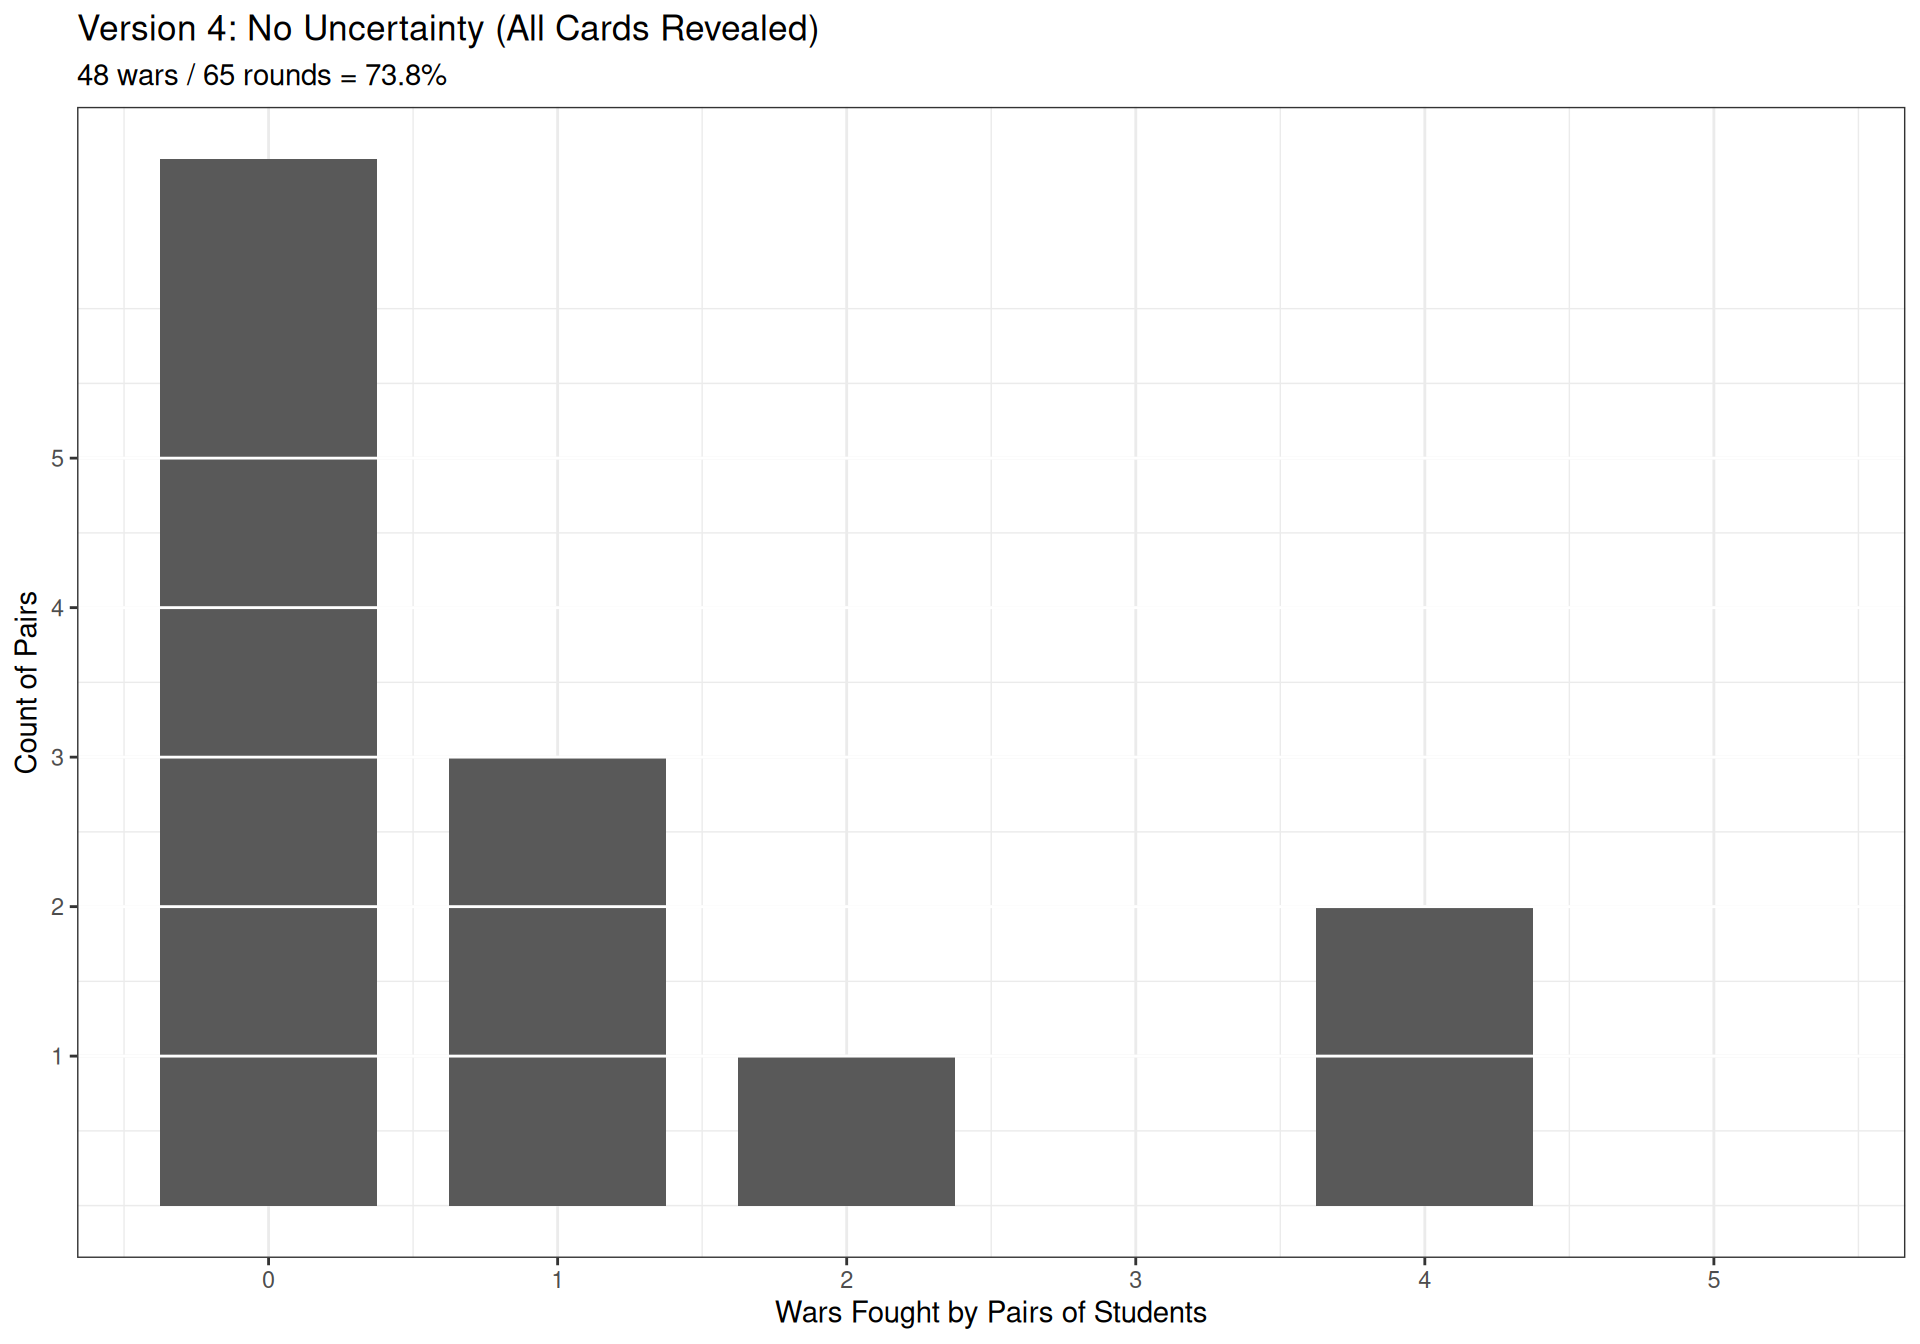
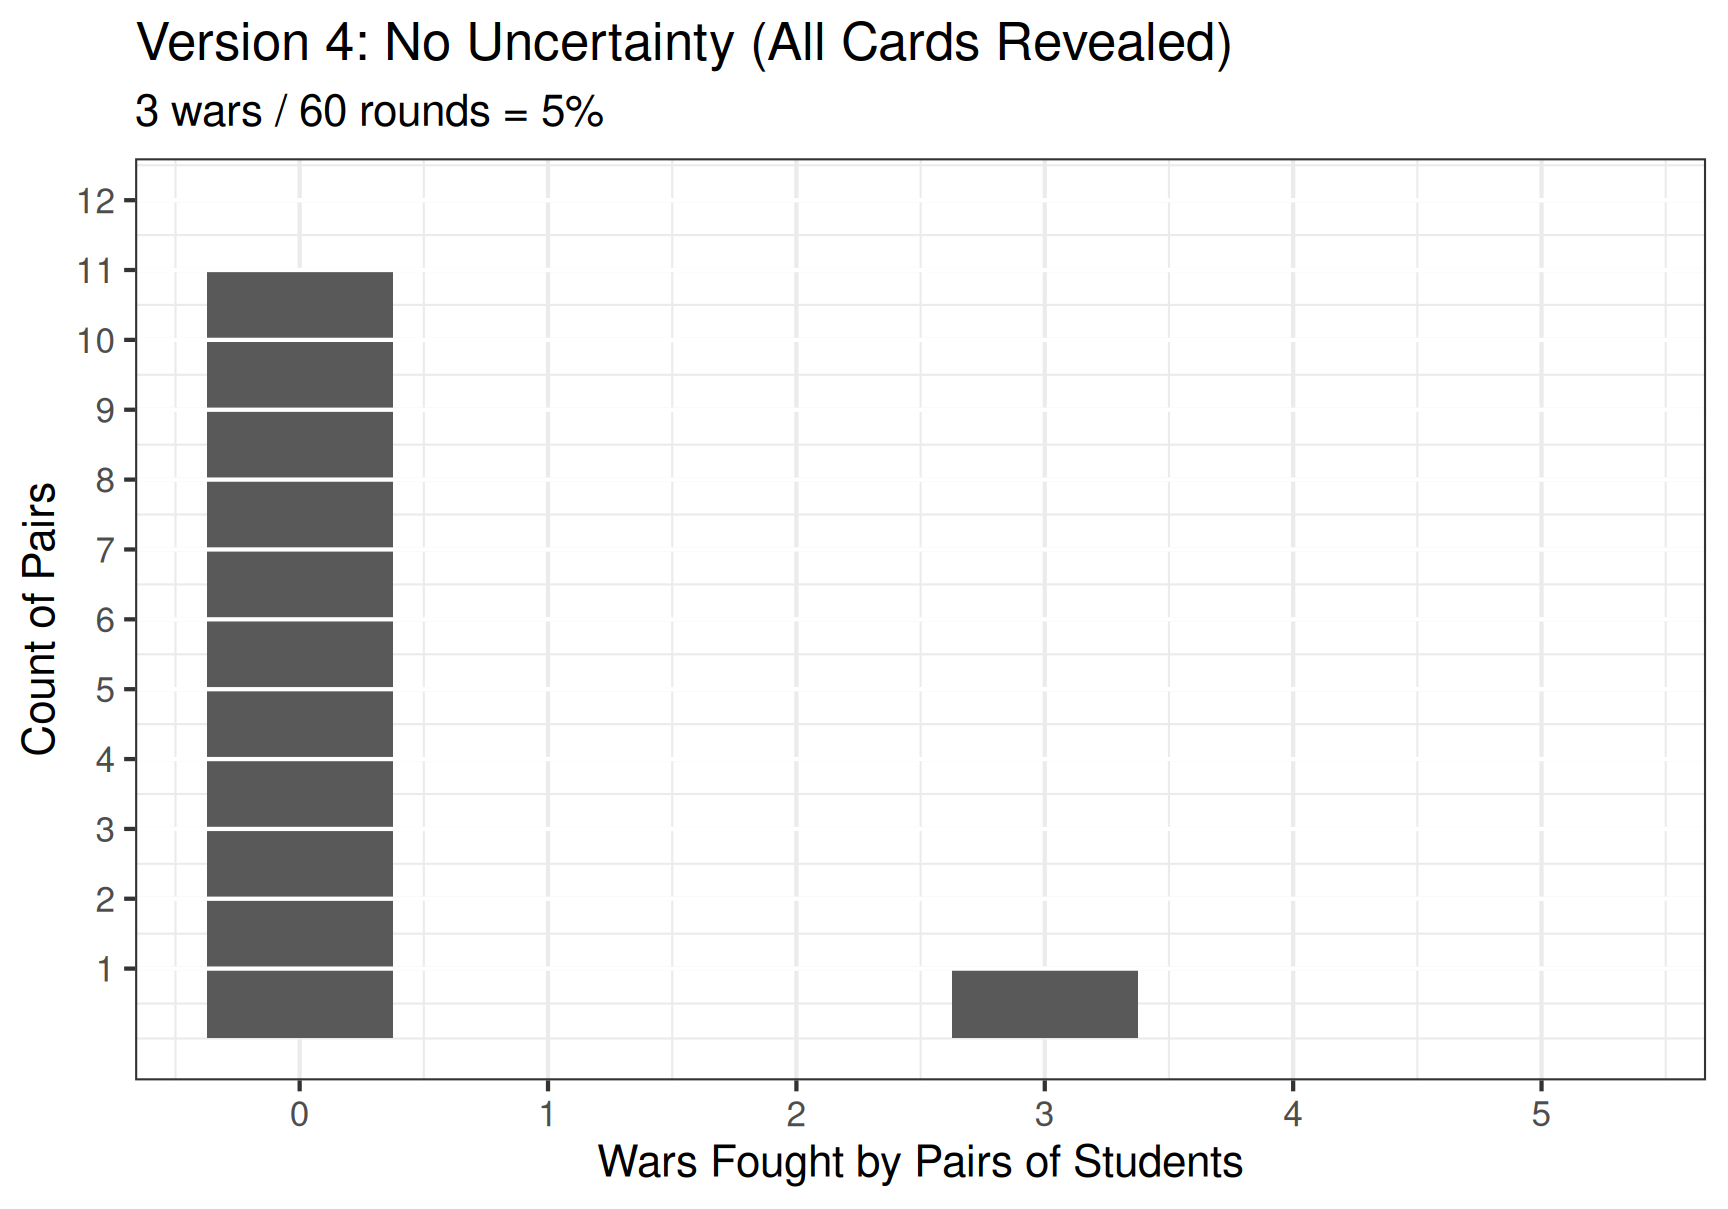
Revise 6-3 prompts

diff --git a/06-2-Bargaining_Model_War.html b/06-2-Bargaining_Model_War.html
@@ -374,10 +374,10 @@
 <p><br></p>
 <h3 id="so-what-do-we-see-here-in-overall-results">So, what do we see here in overall results?</h3>
 <ul>
-<li><p>9 pairs fought zero wars in their five rounds together.</p></li>
-<li><p>10 pairs fought in all five rounds they played together.</p></li>
-<li><p>Out of 52 pairings and 260 possible conflicts we observed 143 wars.</p></li>
-<li><p>So, 55% of the time your conflicts led to war.</p></li>
+<li><p>11 pairs fought zero wars in their five rounds together.</p></li>
+<li><p>3 pairs fought in all five rounds they played together.</p></li>
+<li><p>Out of 48 pairings and 240 possible conflicts we observed 103 wars.</p></li>
+<li><p>So, 42.9% of the time your conflicts led to war.</p></li>
 </ul>
 <style type="text/css">
         span.MJX_Assistive_MathML {
@@ -397,14 +397,14 @@
 <p><strong>Interests, Institutions and Interactions?</strong></p>
 </div>
 
-<img data-src="06-2-Bargaining_Model_War_files/figure-revealjs/unnamed-chunk-3-1.png" class="quarto-figure quarto-figure-center r-stretch" width="960"><aside class="notes">
+<img data-src="06-2-Bargaining_Model_War_files/figure-revealjs/unnamed-chunk-3-1.png" class="quarto-figure quarto-figure-center r-stretch" width="576"><aside class="notes">
 <p>Remember we use models to explain international political events</p>
 <ul>
 <li><p>And we can break most IR models into three components: interests, institutions and interactions</p></li>
 <li><p>So, let’s use these outcomes as a puzzle for us to explain.</p></li>
 </ul>
 <p><br></p>
-<h3 id="how-can-you-explain-why-we-saw-55-of-the-rounds-end-in-war">How can you explain why we saw 55% of the rounds end in war?</h3>
+<h3 id="how-can-you-explain-why-we-saw-42.9-of-the-rounds-end-in-war">How can you explain why we saw 42.9% of the rounds end in war?</h3>
 <ul>
 <li>Talk to the person next to you and get ready to report back to me how some specific interests, institutions, or interactions explain this outcome</li>
 </ul>
@@ -452,7 +452,7 @@
 <p><strong>Interests, Institutions and Interactions?</strong></p>
 </div>
 
-<img data-src="06-2-Bargaining_Model_War_files/figure-revealjs/unnamed-chunk-4-1.png" class="quarto-figure quarto-figure-center r-stretch" width="960"><aside class="notes">
+<img data-src="06-2-Bargaining_Model_War_files/figure-revealjs/unnamed-chunk-4-1.png" class="quarto-figure quarto-figure-center r-stretch" width="576"><aside class="notes">
 <p>Let’s shift our focus to a different political outcome.</p>
 <p><br></p>
 <p>Here are the results for just version 1 of the game.</p>
@@ -461,7 +461,7 @@
 <pre><code># A tibble: 1 × 5
   Version  pairings  wars possible proportion
   &lt;chr&gt;       &lt;int&gt; &lt;dbl&gt;    &lt;dbl&gt;      &lt;dbl&gt;
-1 Version1       13    48       65      0.738</code></pre>
+1 Version1       12    38       60      0.633</code></pre>
 </div>
 </div>
 <p><br></p>
@@ -490,7 +490,7 @@
 <p><strong>Interests, Institutions and Interactions?</strong></p>
 </div>
 
-<img data-src="06-2-Bargaining_Model_War_files/figure-revealjs/unnamed-chunk-6-1.png" class="quarto-figure quarto-figure-center r-stretch" width="960"><aside class="notes">
+<img data-src="06-2-Bargaining_Model_War_files/figure-revealjs/unnamed-chunk-6-1.png" class="quarto-figure quarto-figure-center r-stretch" width="576"><aside class="notes">
 <p>Let’s shift our focus to a different political outcome.</p>
 <p><br></p>
 <p>Here are the results for just version 4 of the game.</p>
@@ -499,7 +499,7 @@
 <pre><code># A tibble: 1 × 5
   Version  pairings  wars possible proportion
   &lt;chr&gt;       &lt;int&gt; &lt;dbl&gt;    &lt;dbl&gt;      &lt;dbl&gt;
-1 Version4       13    13       65        0.2</code></pre>
+1 Version4       12     3       60       0.05</code></pre>
 </div>
 </div>
 <p><br></p>
@@ -527,17 +527,17 @@
 <p><strong>Interests, Institutions and Interactions?</strong></p>
 <p><br></p>
 
-<img data-src="06-2-Bargaining_Model_War_files/figure-revealjs/unnamed-chunk-8-1.png" class="quarto-figure quarto-figure-center r-stretch" width="960"><aside class="notes">
+<img data-src="06-2-Bargaining_Model_War_files/figure-revealjs/unnamed-chunk-8-1.png" class="quarto-figure quarto-figure-center r-stretch" width="768"><aside class="notes">
 <p>Now take a step back.</p>
 <div class="cell">
 <div class="cell-output cell-output-stdout">
 <pre><code># A tibble: 4 × 4
   Uncertainty_f                     wars possible proportion
   &lt;fct&gt;                            &lt;dbl&gt;    &lt;dbl&gt;      &lt;dbl&gt;
-1 High Uncertainty (All Hidden)       48       65       0.74
-2 Medium Uncertainty (Most Hidden)    45       65       0.69
-3 Low Uncertainty (One Hidden)        37       65       0.57
-4 No Uncertainty                      13       65       0.2 </code></pre>
+1 High Uncertainty (All Hidden)       38       60       0.63
+2 Medium Uncertainty (Most Hidden)    35       60       0.58
+3 Low Uncertainty (One Hidden)        27       60       0.45
+4 No Uncertainty                       3       60       0.05</code></pre>
 </div>
 </div>
 <p><br></p>
@@ -1131,7 +1131,40 @@
           display:block!important;
       }</style></aside>
 </section>
-<section id="assignment-for-next-class" class="slide level2 center" data-background-image="Images/background-blue_triangles.jpg">
+<section id="assignment-for-next-class" class="slide level2 center" data-background-image="Images/background-worldmap4.png">
+<h2>Assignment for Next Class</h2>
+<p><br></p>
+<ol type="1">
+<li><p>Hultman, Kathman &amp; Shannon (2016) on United Nations Peacekeeping (p231-238)</p></li>
+<li><p><strong>Before class</strong> submit to our Canvas discussion board:</p>
+<ul>
+<li><p>What is the research question in this paper?</p></li>
+<li><p>Diagram the model in this paper (e.g.&nbsp;interests, institutions and interactions)</p></li>
+</ul></li>
+</ol>
+<aside class="notes">
+<p>Next class we dig into a research paper that explores the effect of the United Nations on war.</p>
+<ul>
+<li>Your job is to read the set-up of the paper (231-238) so we can explore the model they propose to test.</li>
+</ul>
+<p><br></p>
+<h3 id="questions-on-the-assignment">Questions on the assignment?</h3>
+<style type="text/css">
+        span.MJX_Assistive_MathML {
+          position:absolute!important;
+          clip: rect(1px, 1px, 1px, 1px);
+          padding: 1px 0 0 0!important;
+          border: 0!important;
+          height: 1px!important;
+          width: 1px!important;
+          overflow: hidden!important;
+          display:block!important;
+      }</style></aside>
+</section>
+<section id="slides-for-non-snow-interrupted-semesters" class="slide level2">
+<h2>SLIDES for non-snow interrupted semesters</h2>
+</section>
+<section id="assignment-for-next-class-1" class="slide level2 center" data-background-image="Images/background-blue_triangles.jpg">
 <h2>Assignment for Next Class</h2>
 <p><br></p>
 <ol type="1">

diff --git a/06-3-Debate_DPRK.html b/06-3-Debate_DPRK.html
@@ -823,7 +823,7 @@ Argument 1: Bolton (2018)
           display:block!important;
       }</style></aside>
 </section>
-<section id="assignment-for-next-class-1" class="slide level2 center" data-background-image="Images/background-blue_triangles.jpg">
+<section id="assignment-for-next-class-1" class="slide level2 center" data-background-image="Images/background-worldmap4.png">
 <h2>Assignment for Next Class</h2>
 <p><br></p>
 <ol type="1">
@@ -831,7 +831,7 @@ Argument 1: Bolton (2018)
 <li><p><strong>Before class</strong> submit to our Canvas discussion board:</p>
 <ul>
 <li><p>What is the research question in this paper?</p></li>
-<li><p>What is their proposed answer to the question?</p></li>
+<li><p>Diagram the model in this paper (e.g.&nbsp;interests, institutions and interactions)</p></li>
 </ul></li>
 </ol>
 <aside class="notes">

diff --git a/06-1-Penny_War.html b/06-1-Penny_War.html
@@ -844,7 +844,7 @@
           display:block!important;
       }</style></aside>
 </section>
-<section id="assignment-for-next-class" class="slide level2 center" data-background-image="Images/background-blue_triangles.jpg">
+<section id="assignment-for-next-class" class="slide level2 center" data-background-image="Images/background-worldmap4.png">
 <h2>Assignment for Next Class</h2>
 <p><br></p>
 <ol type="1">
